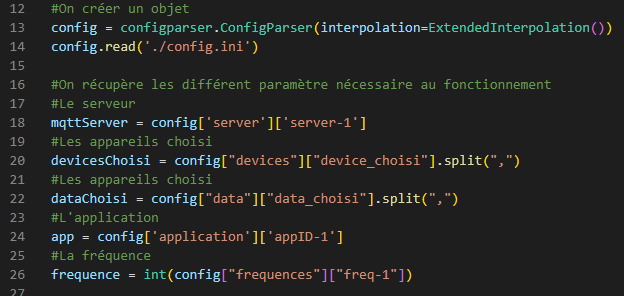
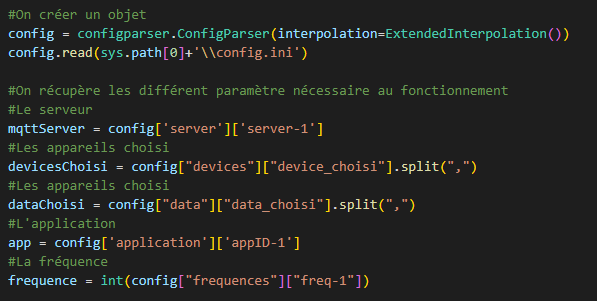
Modification du code python + doc util
code python modfier en fonction des demandes du programme java et donc modification de la doc

Changed region(s): [[0.0, 0.2736, 0.9045, 1.0], [0.0, 0.0, 0.995, 0.2432]]

diff --git a/Applications/Python/app.py b/Applications/Python/app.py
@@ -7,11 +7,12 @@ import configparser
 from configparser import ExtendedInterpolation
 from datetime import datetime
 import os
+import sys #sys.path[0]+'\\fichier.extension';
 import signal
 
 #On créer un objet 
 config = configparser.ConfigParser(interpolation=ExtendedInterpolation())
-config.read('./config.ini')
+config.read(sys.path[0]+'\\config.ini')
 
 #On récupère les différent paramètre nécessaire au fonctionnement
 #Le serveur
@@ -35,64 +36,77 @@ s_activity = int (config['seuils']['activity'])
 
 # Si le fichier de donnée n'existe pas, on le crée; s'il existe et que ca taille n'existe pas, on initialise le tableau des données à un tableau vide; 
 # et s'il existe et qu'il n'est pas vide, on récupère les données qu'il contient dans la tableau des données
-if(not os.path.exists("./data.json")):
-    os.open("./data.json", os.O_CREAT)
-    data = {}
-elif(os.stat("data.json").st_size == 0) :
-    data = {}
+
+if(not os.path.exists(sys.path[0]+'\\data.json')):
+    os.open(sys.path[0]+'\\data.json', os.O_CREAT)
+    data = []
+elif(os.stat(sys.path[0]+'\\data.json').st_size == 0) :
+    data = []
 else: 
-    with open("data.json", "r") as f:  
+    with open(sys.path[0]+'\\data.json', "r") as f:  
         data = json.load(f) 
 
 
 
-def get_data(mqtt, obj, msg):
-    #On récupère les données json du message recu du bus
-    jsonMsg = json.loads(msg.payload)
-    
-    with open("alarmes.txt", "r") as f:  
-        fichier = f.read()
 
-    alarm = False
-    #On rajoute une clé date au dictionnaire des donnés récuperé qui à pour valeur la date/heure/min/seconde à laquelle la fonction à été appellé
-    jsonMsg["object"]["date"] = datetime.now().strftime("%D %H:%M:%S")
-    #S'il n'existe pas de clé nommé comme l'appareil qu'a émis le message, on créer une clé a son nom qui a pour valeur une liste vide 
-    if jsonMsg["deviceName"] not in data :
-        data[jsonMsg["deviceName"]] = []
-    #On rajoute à la liste l'object du message recu
-    data[jsonMsg["deviceName"]].append(jsonMsg["object"])
-    ''' ======== TEST ========
-    data[datetime.now().strftime("%H:%M:%S")]= jsonMsg["rxInfo"]["time"]
-    '''
-    if(not os.path.exists("./alarmes.txt")):
-        os.open("./alarmes.txt", os.O_CREAT)
-    
-    if jsonMsg["object"]["co2"] > s_co2:
-        fichier += "\nAttention le seuil de co2 a été dépassé le " + str (jsonMsg["object"]["date"]) + " (" + str (jsonMsg["object"]["co2"]) + "/" + config['seuils']['co2'] + " ppm)"
-        alarm = True
-    if jsonMsg["object"]["humidity"] > s_humidity_max or jsonMsg["object"]["humidity"] < s_humidity_min :
-        fichier += "\nAttention le seuil d'humidité à été dépassé le " + str (jsonMsg["object"]["date"]) + " (" + str (jsonMsg["object"]["humidity"]) + "%)"
-        alarm = True
-    if jsonMsg["object"]["temperature"] > s_temperature_max or jsonMsg["object"]["temperature"] < s_temperature_min :
-        fichier += "\nAttention le seuil de température à été dépassé le " + str (jsonMsg["object"]["date"]) + " (" + str (jsonMsg["object"]["temperature"]) + "°C)"
-        alarm = True
-    if jsonMsg["object"]["activity"] > s_activity :
-        fichier += "\nAttention le seuil d'activité à été dépassé le " + str (jsonMsg["object"]["date"]) + "(" + str (jsonMsg["object"]["activity"]) + "/" + config['seuils']['activity'] + ")"
-        alarm = True 
-    
-    if alarm == True :
-        with open("alarmes.txt", "w") as f:  
-            f.write (""+ fichier)
-        
+def get_data(mqtt, obj, msg):
+    # On récupère les données json du message recu du bus
+    jsonMsg = json.loads(msg.payload)
+    # Suppression des couples clés/valeur que l'utilisateur aura décidé de ne pas sélectionner
     for donnee in dataChoisi:
         donnee = donnee.split(":")
         if donnee[1] == 'False' : 
-            data.pop(donnee[0])   
+            jsonMsg["object"].pop(donnee[0])
+    # On rajoute une clé date au dictionnaire des donnés récuperé qui à pour valeur la date/heure/min/seconde à laquelle la fonction à été appellé
+    jsonMsg["object"]["date"] = datetime.now().strftime("%D %H:%M:%S")
+
+    # test si on a déjà reçu une donnée et enregistre l'indice de la donnée si oui
+    indice = 0
+    exist = False
+    for dic in data:
+        if(dic['dev'] == jsonMsg["deviceName"]):
+            exist = True
+            break
+        indice+=1
+            
+    # Si la donné n'existe pas, on ajout une entré dans le liste des dictionnaire {dev, val} et on ajoute à la partie val l'object du jsonMsg. 
+    # Sinon, on ajoute uniquement à la partie val l'object du jsonMsg
+    if(not exist) :
+        data.append({'dev':jsonMsg["deviceName"], 'val': []})
+        data[len(data)-1]['val'].append(jsonMsg["object"])
+    else :
+        data[indice]['val'].append(jsonMsg["object"])
+
+
+    # Gestion des alarmes
+    alarm = False
+    if(not os.path.exists(sys.path[0]+'\\alarmes.txt')):
+        os.open(sys.path[0]+'\\alarmes.txt', os.O_CREAT)
+    else :
+        with open(sys.path[0]+'\\alarmes.txt', "r") as f:  
+            fichier = f.read()
     
-    print(mqtt)
-    print(obj)
-    print(msg)
-    print("===")
+    if "co2" in jsonMsg["object"] :
+        if jsonMsg["object"]["co2"] > s_co2:
+            fichier += "\nAttention le seuil de co2 a été dépassé le " + str (jsonMsg["object"]["date"]) + " (" + str (jsonMsg["object"]["co2"]) + "/" + config['seuils']['co2'] + " ppm)"
+            alarm = True
+    if "humidity" in jsonMsg["object"] :
+        if  jsonMsg["object"]["humidity"] > s_humidity_max or jsonMsg["object"]["humidity"] < s_humidity_min :
+            fichier += "\nAttention le seuil d'humidité à été dépassé le " + str (jsonMsg["object"]["date"]) + " (" + str (jsonMsg["object"]["humidity"]) + "%)"
+            alarm = True
+    if "temperature" in jsonMsg["object"] :
+        if jsonMsg["object"]["temperature"] > s_temperature_max or jsonMsg["object"]["temperature"] < s_temperature_min :
+            fichier += "\nAttention le seuil de température à été dépassé le " + str (jsonMsg["object"]["date"]) + " (" + str (jsonMsg["object"]["temperature"]) + "°C)"
+            alarm = True
+    if "activity" in jsonMsg["object"] :
+        if  jsonMsg["object"]["activity"] > s_activity :
+            fichier += "\nAttention le seuil d'activité à été dépassé le " + str (jsonMsg["object"]["date"]) + "(" + str (jsonMsg["object"]["activity"]) + "/" + config['seuils']['activity'] + ")"
+            alarm = True 
+    
+    if alarm == True :
+        with open(sys.path[0]+'\\alarmes.txt', "w") as f:  
+            f.write (""+ fichier)
+
 
 
 #On se connecte au serveur sur le port 1883
@@ -110,22 +124,17 @@ mqttc.on_message = get_data
 
 mqttc.loop_start()
 
-''' ======== TEST ========
-mqttc.subscribe("gateway/3170000000000010/event/up")
-'''
 
-def sendData(sig,code):
+def sendData():
     #On écrit dans le fichier json les données lu entre l'intervale de temps (la fréquence)
-    with open("data.json", "w") as outfile:
+    with open(sys.path[0]+'\\data.json', "w") as outfile:
         json.dump(data, outfile)
+    print("donnée reçu envoyé")
 
-#Lorsque l'on recoit un signal d'alarme, on appel la fonction sendData
-# signal.signal(signal.SIGALRM, sendData)
 
 while True:
     #On envoie un signal d'alarme toute les n(=frequence) secondes
-    # signal.alarm(frequence)
-    sendData(0,0)
+    sendData()
     #On attend n+1(=frequence+1) secondes
-    time.sleep(frequence+1)
+    time.sleep(frequence+0.1)
     
